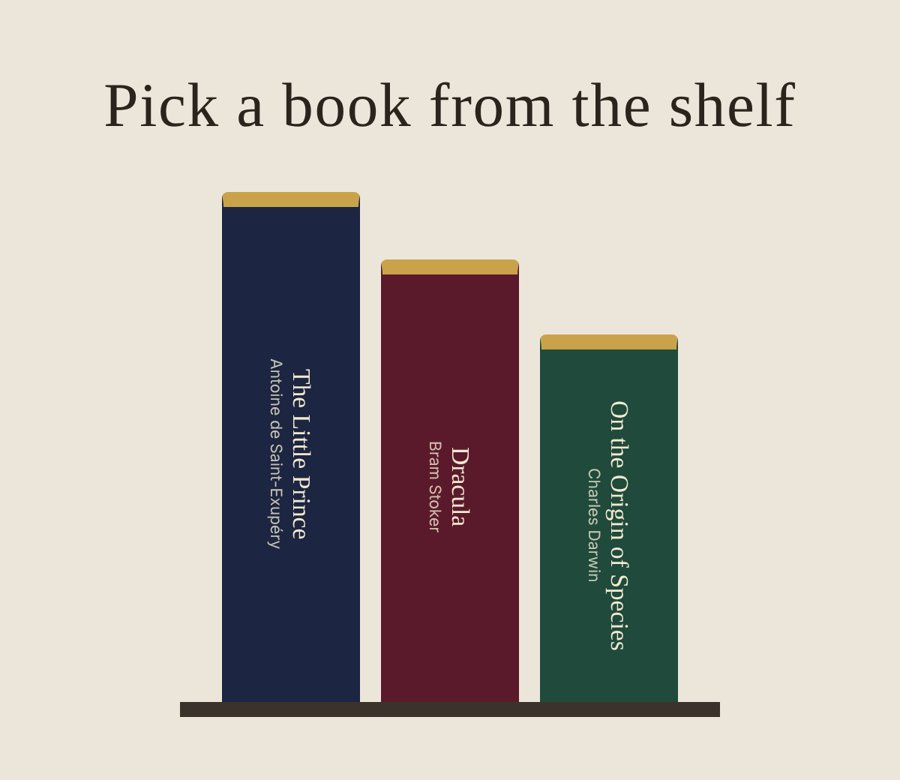
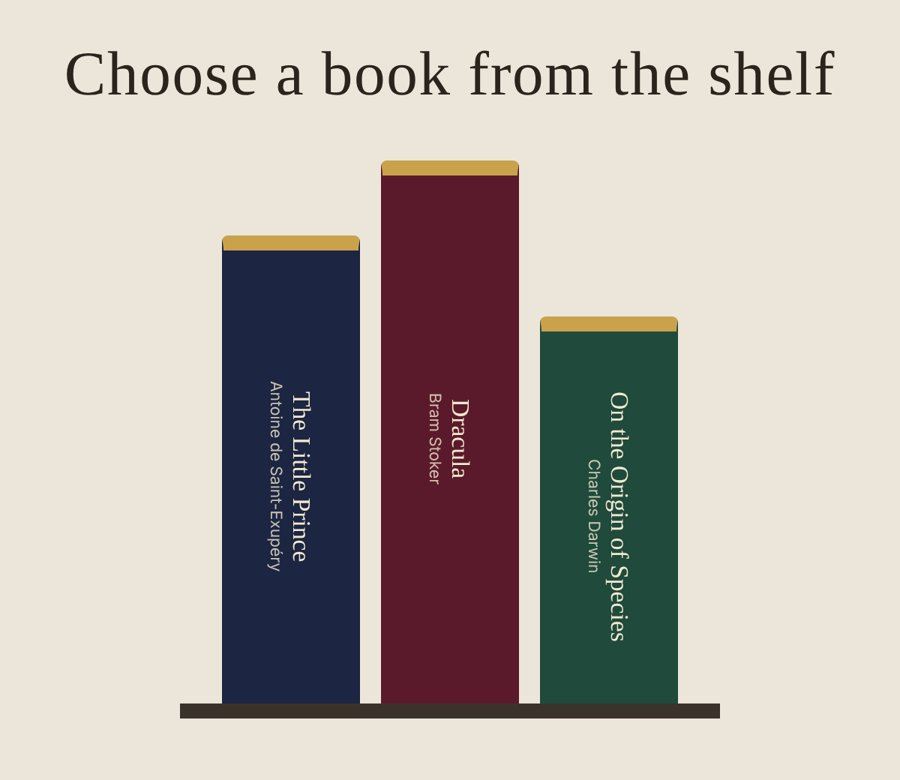
Add files via upload

diff --git a/index.html b/index.html
@@ -115,7 +115,7 @@ section{display:grid;grid-template-columns:200px 1fr;gap:40px;padding:64px 0;bor
 .stack h3{font-family:var(--mono);font-size:12.5px;font-weight:500;text-transform:uppercase;letter-spacing:.04em;color:var(--accent);margin:0 0 10px}
 .stack p{margin:0;font-size:17px}
 .contact{padding:72px 0 56px}
-.contact h2{font-family:var(--display);font-weight:700;font-size:clamp(30px,4vw,44px);letter-spacing:-.02em;line-height:1.05;margin:8px 0 20px}
+.contact h2{color:var(--accent);font-family:var(--display);font-weight:700;font-size:clamp(30px,4vw,44px);letter-spacing:-.02em;line-height:1.05;margin:8px 0 20px}
 .contact .row{display:flex;flex-wrap:wrap;gap:14px 34px;font-family:var(--mono);font-size:15px}
 .contact .row a,.contact .row span{color:var(--ink)}
 footer{padding:20px 0 40px;border-top:1px solid var(--ink)}
@@ -148,12 +148,7 @@ footer{padding:20px 0 40px;border-top:1px solid var(--ink)}
 <div class="wrap">
 
 <header class="top">
-  <div class="tl">
-    <span class="mono" style="color:var(--ink);font-weight:500">Or Hochman</span>
-    <span class="tc2">or.hoch6@gmail.com</span>
-    <span class="tc2">+972-52-6799959</span>
-    <a class="tc2" href="https://www.linkedin.com/in/or-hochman-761432111">LinkedIn ↗</a>
-  </div>
+  <span class="mono" style="color:var(--ink)">Or Hochman</span>
   <nav aria-label="Sections">
     <a href="#video">AI video</a>
     <a href="#ai-builds">AI projects</a>
@@ -288,7 +283,7 @@ footer{padding:20px 0 40px;border-top:1px solid var(--ink)}
       </article>
       <article class="build">
         <span class="mono">Interactive concept · Book marketing</span>
-        <a class="thumb" href="https://orhoch.github.io/book-shelf/"><img src="bookshelf.jpg" alt="The bookshelf page: three book spines, The Little Prince, Dracula and On the Origin of Species, under the heading Pick a book from the shelf" width="900" height="780"></a>
+        <a class="thumb" href="https://orhoch.github.io/book-shelf/"><img src="bookshelf.jpg" alt="The bookshelf page: three book spines, The Little Prince, Dracula and On the Origin of Species, under the heading Choose a book from the shelf" width="900" height="780"></a>
         <h3>The Classic Books Bookshelf</h3>
         <p>A playful way to sell classics. Each book on the shelf (The Little Prince, Dracula, On the Origin of Species) opens quote-based mini-games that end with a link to buy it.</p>
         <div class="links" style="font-family:var(--mono);font-size:13px"><a href="https://orhoch.github.io/book-shelf/">Open the bookshelf ↗</a></div>
